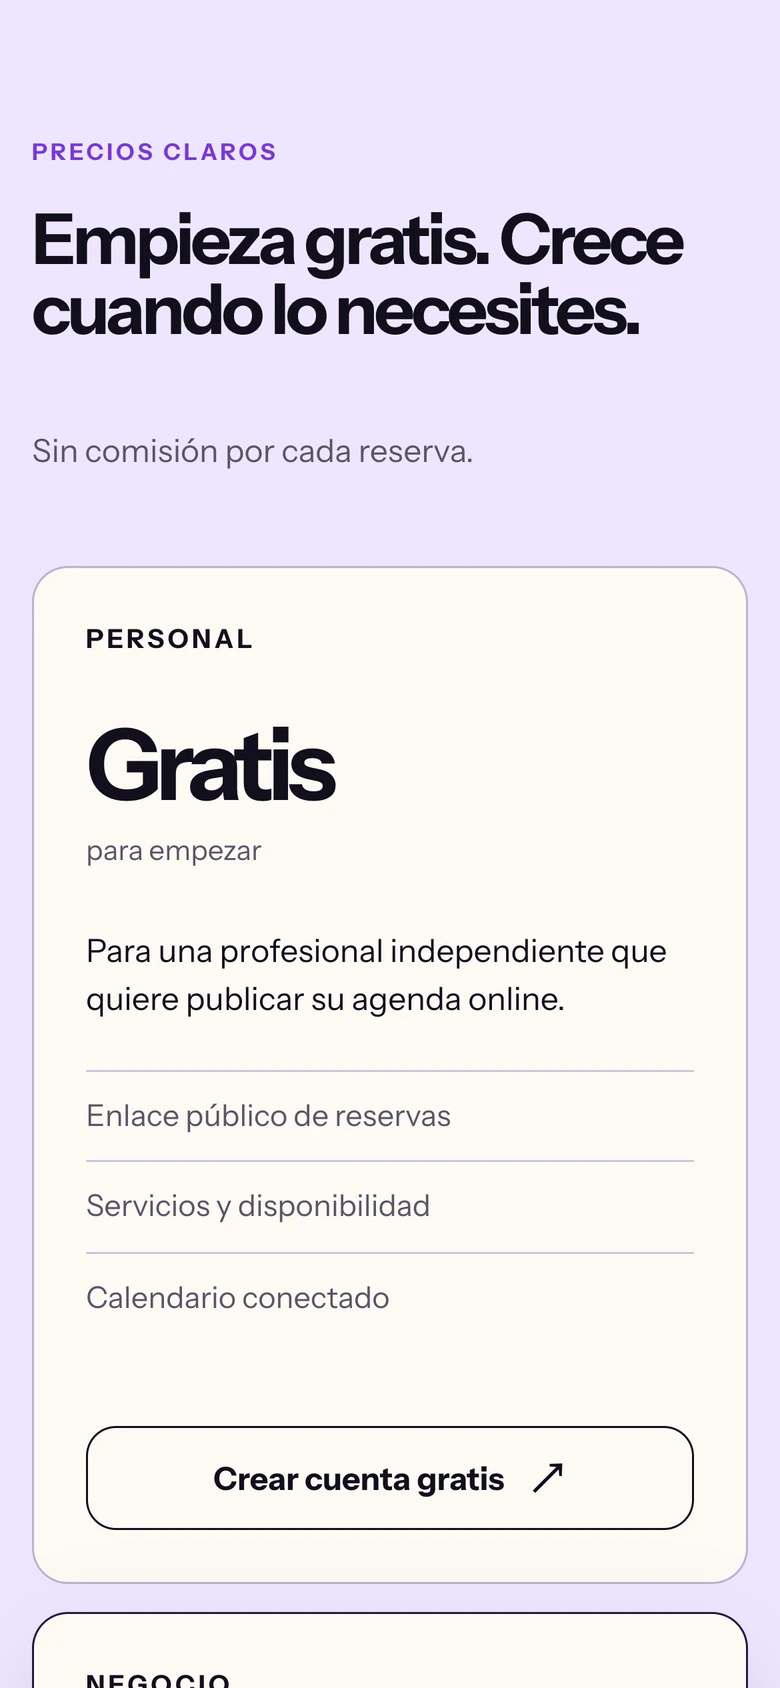
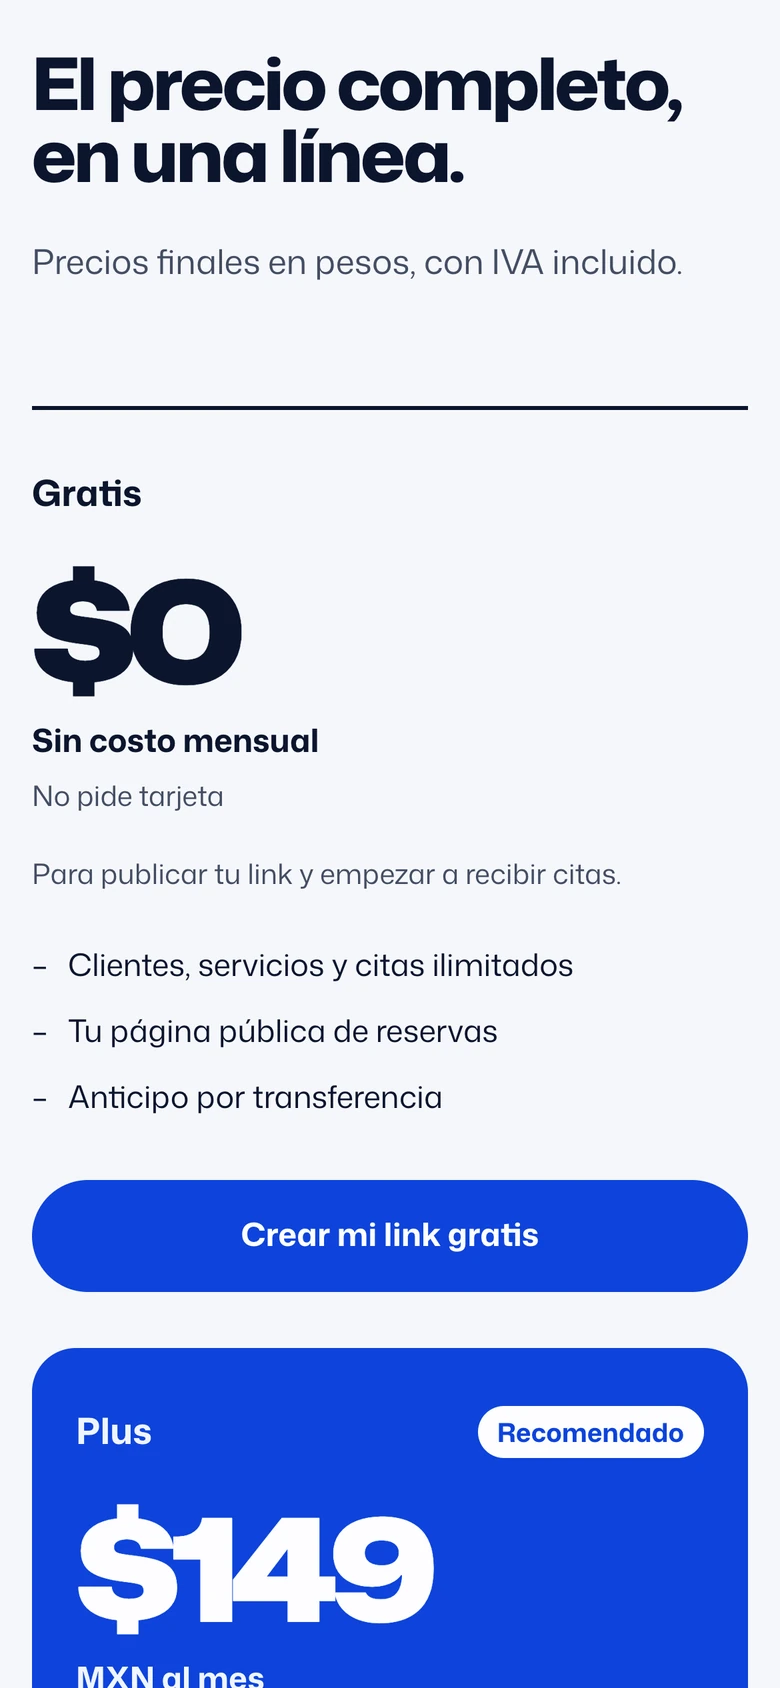
feat: publish Apuntafy's page with its redesigned landing
The Apuntafy landing was redesigned around nail, lash and beauty studios
and a single booking link. The project page, its home card and copy now
match it, with fresh desktop and phone screenshots plus the real booking
page, and the page is published again. No project is held back anymore.

diff --git a/src/i18n/es.ts b/src/i18n/es.ts
@@ -81,7 +81,7 @@ export const es = {
 				id: "apuntafy",
 				name: "Apuntafy",
 				kind: "Sistema web",
-				text: "Reservas en línea para barberías y salones de belleza, con recordatorios por WhatsApp.",
+				text: "Agenda en línea para uñas, pestañas y estéticas. Las clientas apartan desde un link y reciben su recordatorio por WhatsApp.",
 				href: "https://apuntafy.com/es",
 				alt: "Calendario de reservas y lista de servicios de Apuntafy",
 			},
@@ -157,38 +157,41 @@ export const es = {
 	projects: {
 		apuntafy: {
 			meta: {
-				title: "Apuntafy, agenda en línea para salones | Victor Sanchez",
-				description: "Agenda de reservas para estéticas y salones de belleza en México. Mira sus pantallas y lo que hice en el proyecto.",
+				title: "Apuntafy, agenda en línea para uñas, pestañas y estéticas | Victor Sanchez",
+				description: "Agenda en línea para uñas, pestañas y estéticas en México: las clientas apartan desde un link y reciben su recordatorio por WhatsApp. Mira sus pantallas y lo que hice en el proyecto.",
 			},
-			lead: "Agenda en línea para estéticas y salones. Tus clientas eligen servicio y horario desde un enlace.",
+			lead: "Agenda en línea para uñas, pestañas y estéticas. Las clientas apartan desde un link, sin escribir ni instalar nada.",
 			about:
-				"Cada negocio tiene su página de reservas con sus servicios, lo que dura cada uno y sus horarios libres. La comparte por WhatsApp o Instagram y sus clientas reservan solas. El negocio ve todas sus citas en un solo lugar.",
+				"Cada negocio tiene su link con sus servicios, lo que dura cada uno y sus horarios libres. Lo pega en su perfil, en sus historias o en un chat, y sus clientas apartan solas desde el celular. Con el plan Plus, a cada clienta le llegan la confirmación y un recordatorio por WhatsApp.",
 			role: "Es un proyecto propio y me encargo de todo: qué hace, el diseño, el frontend, el backend y la arquitectura. Partí de una base open source de agenda y la adapté a los salones de México.",
 			status: "En línea, con clientes",
 			visit: "Abrir apuntafy.com",
 			stack: ["Next.js", "React", "tRPC", "Prisma", "PostgreSQL", "Stripe", "API de WhatsApp"],
 			highlights: [
-				{ name: "Reservas desde un enlace", text: "La clienta ve los servicios, elige día y hora libre y deja su cita sin mandar mensajes." },
-				{ name: "Recordatorios por WhatsApp", text: "Salen solos y solo a quien aceptó recibirlos. Un apagado de emergencia detiene todos los envíos." },
-				{ name: "Pensada para salones", text: "Uñas, cabello, cejas o faciales: cada servicio con su foto y su duración." },
-				{ name: "Sin comisión por reserva", text: "Hay un plan gratis para quien trabaja sola y uno de pago para equipos." },
+				{ name: "Un link para todo", text: "Va en el perfil, en las historias o en un chat. La clienta elige servicio y horario sin mandar mensajes." },
+				{ name: "Recordatorios por WhatsApp", text: "Salen solos con el nombre del negocio y solo a quien aceptó recibirlos. Si se acaban los mensajes, llegan por correo." },
+				{ name: "Anticipo por transferencia", text: "La clienta sube su comprobante y la cita queda pendiente hasta que el negocio la acepta." },
+				{ name: "Sin comisión por cita", text: "Un plan gratis para empezar y precios fijos, con IVA incluido, para quien quiere más." },
 			],
 			groups: { web: "En la computadora", movil: "En el celular" },
 			shots: {
 				reserva: "Página de reservas: servicio, día y horario",
 				inicio: "Página principal",
-				"como-funciona": "Cómo funciona, en tres pasos",
+				lugares: "Dónde va el link",
+				clienta: "La clienta no descarga nada",
+				recordatorios: "Recordatorio por WhatsApp",
 				precios: "Planes y precios",
-				registro: "Registro del negocio",
+				"elige-link": "Elige tu link",
 				"m-servicios": "Servicios que ve la clienta",
-				"m-hero": "Página principal",
-				"m-reservan": "Cómo reservan las clientas",
-				"m-mensajes": "Menos mensajes de ida y vuelta",
-				"m-esencial": "Lo que hace la agenda",
+				"m-inicio": "Página principal",
+				"m-lugares": "Dónde va el link",
+				"m-clienta": "Sin app ni cuenta",
+				"m-recordatorios": "Recordatorios con Plus",
+				"m-incluye": "Lo que incluye gratis",
 				"m-precios": "Planes",
-				"m-registro": "Registro desde el celular",
+				"m-elige-link": "Elige tu link",
 			},
-			note: "",
+			note: "Aura Beauty Studio, el negocio de las capturas, es un ejemplo.",
 		},
 		sonrisas: {
 			meta: {

diff --git a/src/i18n/en.ts b/src/i18n/en.ts
@@ -83,7 +83,7 @@ export const en: Copy = {
 				id: "apuntafy",
 				name: "Apuntafy",
 				kind: "Web app",
-				text: "Online booking for barbershops and beauty salons, with WhatsApp reminders.",
+				text: "Online booking for nail, lash and beauty studios. Clients book from a link and get their reminder on WhatsApp.",
 				href: "https://apuntafy.com/es",
 				alt: "Apuntafy booking calendar and service list",
 			},
@@ -159,38 +159,41 @@ export const en: Copy = {
 	projects: {
 		apuntafy: {
 			meta: {
-				title: "Apuntafy, online booking for salons | Victor Sanchez",
-				description: "Online booking for beauty salons in Mexico. See its screens and what I did on the project.",
+				title: "Apuntafy, online booking for nail, lash and beauty studios | Victor Sanchez",
+				description: "Online booking for nail, lash and beauty studios in Mexico: clients book from a link and get their reminder on WhatsApp. See its screens and what I did on the project.",
 			},
-			lead: "Online booking for beauty salons. Clients pick a service and a time from a link.",
+			lead: "Online booking for nail, lash and beauty studios. Clients book from a link, without messaging or installing anything.",
 			about:
-				"Each business gets a booking page with its services, how long each one takes and its open times. It shares the link on WhatsApp or Instagram and clients book on their own. The business sees every appointment in one place.",
+				"Each business gets its own link with its services, how long each one takes and its open times. It goes on the business's profile, in its stories or in a chat, and clients book on their own from their phone. With the Plus plan, each client gets a confirmation and a reminder on WhatsApp.",
 			role: "It's my own product and I handle all of it: what it does, the design, the frontend, the backend and the architecture. I started from an open source scheduling base and adapted it to salons in Mexico.",
 			status: "Live, with customers",
 			visit: "Open apuntafy.com",
 			stack: ["Next.js", "React", "tRPC", "Prisma", "PostgreSQL", "Stripe", "WhatsApp API"],
 			highlights: [
-				{ name: "Booking from a link", text: "Clients see the services, pick an open day and time and book without sending messages." },
-				{ name: "WhatsApp reminders", text: "They go out on their own, only to people who agreed to get them. An emergency switch stops every send." },
-				{ name: "Made for salons", text: "Nails, hair, brows or facials: each service with its photo and its length." },
-				{ name: "No fee per booking", text: "There's a free plan for people who work alone and a paid one for teams." },
+				{ name: "One link for everything", text: "It goes on a profile, in stories or in a chat. Clients pick a service and a time without sending messages." },
+				{ name: "WhatsApp reminders", text: "They go out on their own with the business's name, only to people who agreed to get them. If messages run out, they go by email." },
+				{ name: "Deposits by bank transfer", text: "Clients upload their receipt and the appointment waits until the business accepts it." },
+				{ name: "No fee per appointment", text: "A free plan to start, and fixed prices with tax included for those who want more." },
 			],
 			groups: { web: "On a computer", movil: "On a phone" },
 			shots: {
 				reserva: "Booking page: service, day and time",
 				inicio: "Home page",
-				"como-funciona": "How it works, in three steps",
+				lugares: "Where the link goes",
+				clienta: "Clients don't download anything",
+				recordatorios: "A WhatsApp reminder",
 				precios: "Plans and pricing",
-				registro: "Business sign-up",
+				"elige-link": "Pick your link",
 				"m-servicios": "Services the client sees",
-				"m-hero": "Home page",
-				"m-reservan": "How clients book",
-				"m-mensajes": "Fewer back-and-forth messages",
-				"m-esencial": "What the booking page does",
+				"m-inicio": "Home page",
+				"m-lugares": "Where the link goes",
+				"m-clienta": "No app, no account",
+				"m-recordatorios": "Reminders with Plus",
+				"m-incluye": "What's free",
 				"m-precios": "Plans",
-				"m-registro": "Sign-up on a phone",
+				"m-elige-link": "Pick your link",
 			},
-			note: "",
+			note: "Aura Beauty Studio, the business in the screenshots, is an example.",
 		},
 		sonrisas: {
 			meta: {

diff --git a/src/proyectos.ts b/src/proyectos.ts
@@ -49,7 +49,7 @@ export const orden: ProyectoId[] = ["apuntafy", "sonrisas", "peoplecor", "schola
 // Proyectos en rediseño (noviembre de 2026): su página no se publica todavía y la
 // tarjeta de la portada lleva a su sitio. Al terminar el rediseño, retoma las capturas
 // y sácalos de esta lista.
-const enRediseno: ProyectoId[] = ["apuntafy"];
+const enRediseno: ProyectoId[] = [];
 
 // Proyectos ocultos por ahora: sin tarjeta, sin página y sin mención en la portada.
 // PeopleCor queda fuera mientras Victor trabaje ahí. Sus textos y capturas se quedan
@@ -63,21 +63,21 @@ export const conPagina = orden.filter(tienePagina);
 export const proyectos: Record<ProyectoId, Proyecto> = {
 	apuntafy: {
 		slug: "apuntafy",
-		// Lila de la marca.
-		tono: ["#c4b5ff", "#ece7ff"],
+		// Azul de la marca.
+		tono: ["#b9c6ff", "#e8edff"],
 		portada: { web: "inicio", url: "apuntafy.com", moviles: ["m-servicios"] },
 		grupos: [
 			{
 				id: "web",
 				marco: "web",
 				url: "apuntafy.com",
-				capturas: ["reserva", "inicio", "como-funciona", "precios", "registro"],
+				capturas: ["reserva", "inicio", "lugares", "clienta", "recordatorios", "precios", "elige-link"],
 				anchas: ["reserva"],
 			},
 			{
 				id: "movil",
 				marco: "movil",
-				capturas: ["m-servicios", "m-hero", "m-reservan", "m-mensajes", "m-esencial", "m-precios", "m-registro"],
+				capturas: ["m-servicios", "m-inicio", "m-lugares", "m-clienta", "m-recordatorios", "m-incluye", "m-precios", "m-elige-link"],
 			},
 		],
 	},
